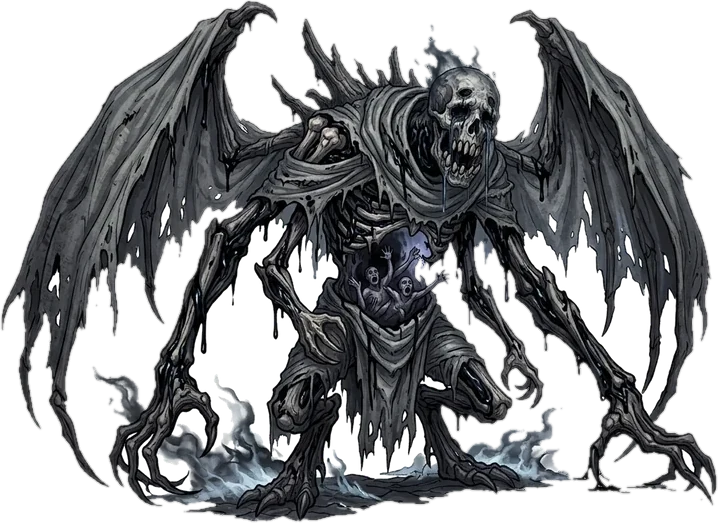
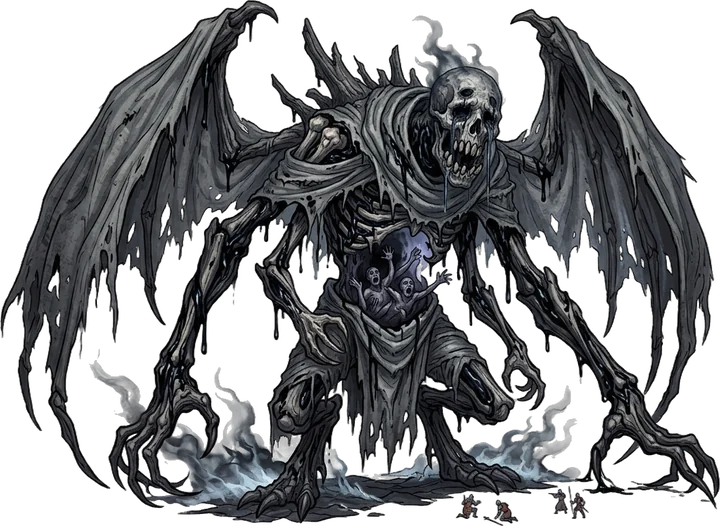
ฉากหลังบอสโลกทั้ง 2 ตัว + เอาแสงแดงรอบบอสตัวใหญ่ออก
Claude-Session: https://claude.ai/code/session_01K5hYZCSMYKBWhWem2dEZti

diff --git a/tower.js b/tower.js
@@ -18,8 +18,8 @@ const MAP_POS = {
 /* บอสโลก (กลางทวีปที่ 2) */
 // บอสโลกของแต่ละทวีป — frag = เศษเลเจนดารีขั้นต่ำต่อการชนะ (+1 ต่อระดับความยาก), legend = โอกาสได้อุปกรณ์เลเจนดารี (ครั้งแรกได้แน่นอน)
 const WORLD_BOSSES = {
-  w1: { n: 'ราชันย์โครงกระดูกมรณะ', i: '💀', img: 'mon/worldboss1.webp', lv: 32, gate: 'castle', icon: '💀', frag: 2, legend: 0.05, hp: 16 },
-  w2: { n: 'เทพแห่งความว่างเปล่า', i: '👁', img: 'mon/worldboss.webp', lv: 62, gate: 'w2castle', icon: '👁', frag: 3, legend: 0.1, hp: 20 },
+  w1: { n: 'ราชันย์โครงกระดูกมรณะ', i: '💀', img: 'mon/worldboss1.webp', bg: 'bg/wb1.webp', lv: 32, gate: 'castle', icon: '💀', frag: 2, legend: 0.05, hp: 16 },
+  w2: { n: 'เทพแห่งความว่างเปล่า', i: '👁', img: 'mon/worldboss.webp', bg: 'bg/wb2.webp', lv: 62, gate: 'w2castle', icon: '👁', frag: 3, legend: 0.1, hp: 20 },
 };
 const WORLD_BOSS = WORLD_BOSSES.w2; // เผื่อโค้ดเก่า
 const isWorldBoss = (name) => Object.values(WORLD_BOSSES).some((x) => x.n === name);

diff --git a/battle2d.js b/battle2d.js
@@ -109,7 +109,7 @@ function stageHTML(zone, foe, isBoss, heroSvg) {
   const isHuge = typeof MONSTER_IMG !== 'undefined' && typeof HUGE_MON !== 'undefined' && HUGE_MON.has(MONSTER_IMG[foe.n]);
   return `<div class="stage ${isWB || isBoss ? 'wb-stage' : ''}" id="stage">
     <svg class="stage-bg" viewBox="0 0 400 240" preserveAspectRatio="xMidYMax slice">${(SCENE[zone.scene || zone.id] || SCENE.forest)()}</svg>
-    <img class="stage-bg stage-img" src="bg/${zone.scene || zone.id}.webp" alt="" onerror="this.remove()">
+    <img class="stage-bg stage-img" src="${isWB ? Object.values(WORLD_BOSSES).find((w) => w.n === foe.n).bg : `bg/${zone.scene || zone.id}.webp`}" alt="" onerror="this.remove()">
     <div class="unit hero-u" id="u-hero"><div class="ushadow"></div><div class="ubody" id="hero-body">${heroSvg}</div><div class="utags" id="htags"></div>
       <div class="ubars"><div class="mbar hp"><i id="hhp"></i><span id="hhptext"></span></div><div class="mbar mp"><i id="hmp"></i></div></div></div>
     <div class="unit foe-u ${isBoss ? 'boss' : ''} ${isWB || isBoss ? 'wb' : ''} ${isWB ? 'wboss' : ''} ${isHuge ? 'huge' : ''}" id="u-foe"><div class="ushadow"></div><div class="ubody foe-sprite" id="foe-body">${typeof monsterSVG === 'function' ? monsterSVG(foe.n, isWB ? 400 : isBoss ? 112 : 86, foe.i) : foe.i}</div><div class="utags ftags" id="ftags"></div>

diff --git a/sw.js b/sw.js
@@ -1,7 +1,7 @@
 /* Service worker: เล่นได้แม้ไม่มีเน็ต
    ไฟล์เกม = ดึงจากเน็ตก่อน (ได้เวอร์ชันล่าสุดเสมอ) ถ้าออฟไลน์ใช้ของที่เก็บไว้ */
-const CACHE = 'thai-rpg-v48';
-const CORE = ['./', 'index.html', 'style.css', 'hero.js', 'monsters.js', 'battle2d.js', 'features.js', 'cosmetics.js', 'tower.js', 'game.js', 'bg/worldmap.webp', 'bg/worldmap2.webp', ...['forest','cave','desert','volcano','swamp','ice','sea','sky','spirit','castle'].map((z) => `bg/${z}.webp`),
+const CACHE = 'thai-rpg-v49';
+const CORE = ['./', 'index.html', 'style.css', 'hero.js', 'monsters.js', 'battle2d.js', 'features.js', 'cosmetics.js', 'tower.js', 'game.js', 'bg/worldmap.webp', 'bg/wb1.webp', 'bg/wb2.webp', 'bg/worldmap2.webp', ...['forest','cave','desert','volcano','swamp','ice','sea','sky','spirit','castle'].map((z) => `bg/${z}.webp`),
   'manifest.webmanifest', 'icon-192.png', 'icon-512.png'];
 
 self.addEventListener('install', (e) => {

diff --git a/style.css b/style.css
@@ -625,3 +625,4 @@ textarea.code { width: 100%; height: 76px; margin: 8px 0; padding: 8px; border-r
 .foe-u.wboss { right: -52%; width: 150%; }
 .foe-u.wboss .mon-img { max-height: calc(min(50vh, 520px) * .83); }
 .foe-u.wboss .ubars { left: 42%; }
+.foe-u.wb .foe-sprite { filter: drop-shadow(0 4px 8px #0009); } /* ไม่ใส่แสงแดงรอบบอสตัวใหญ่ */
